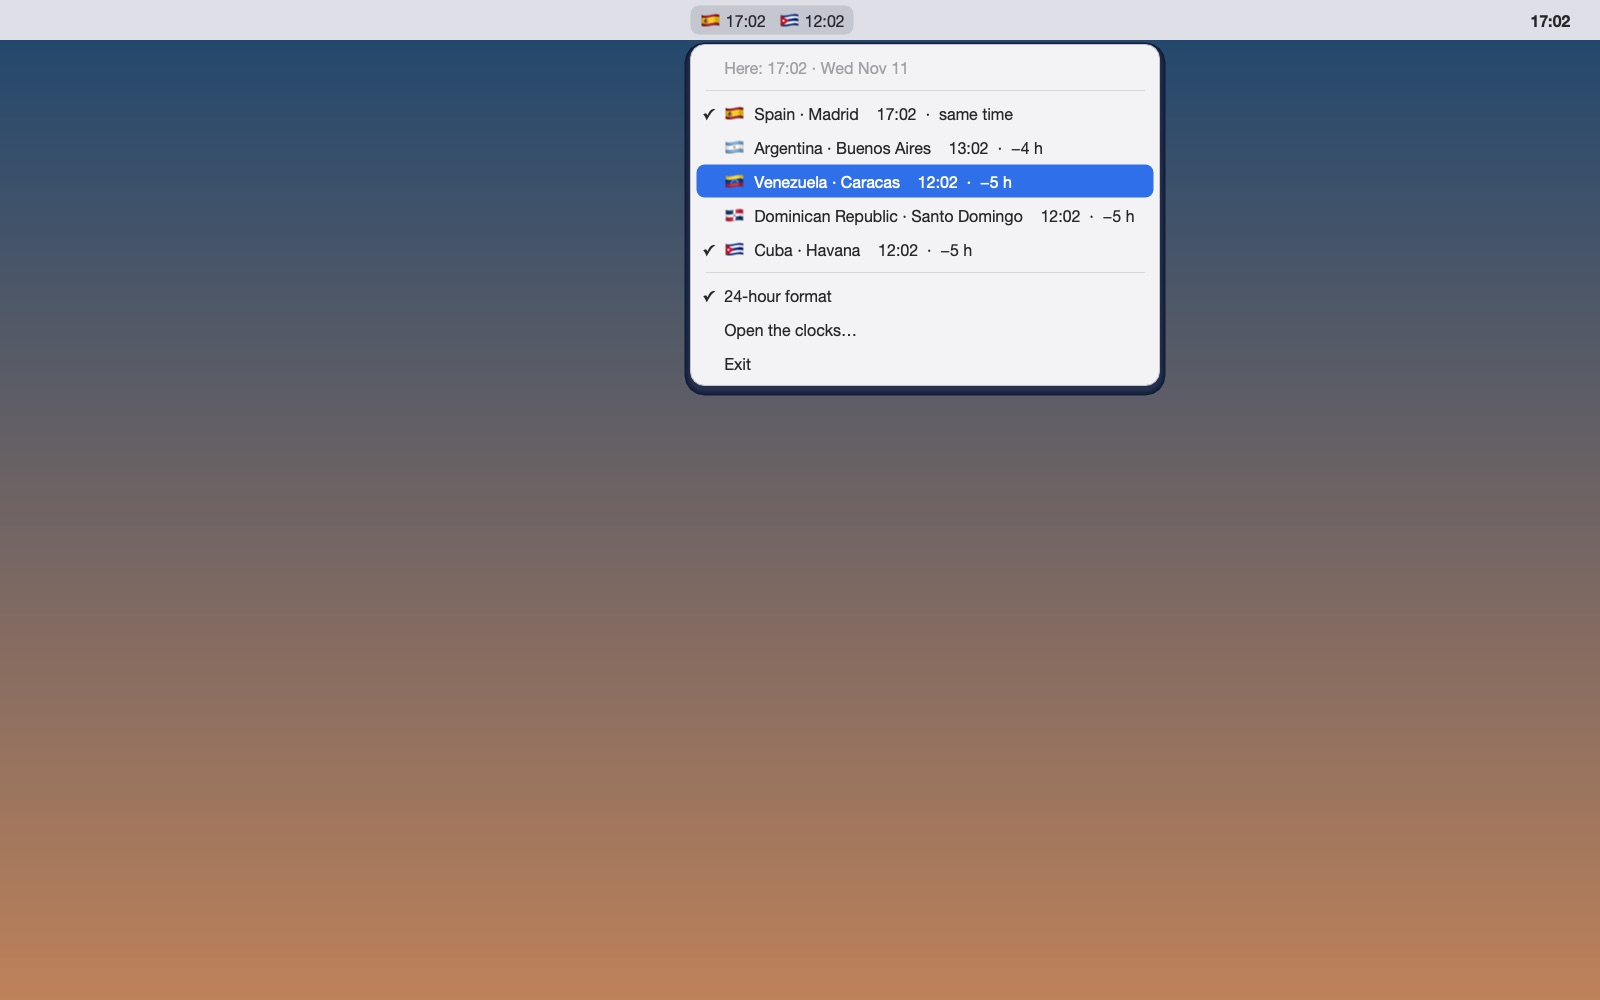
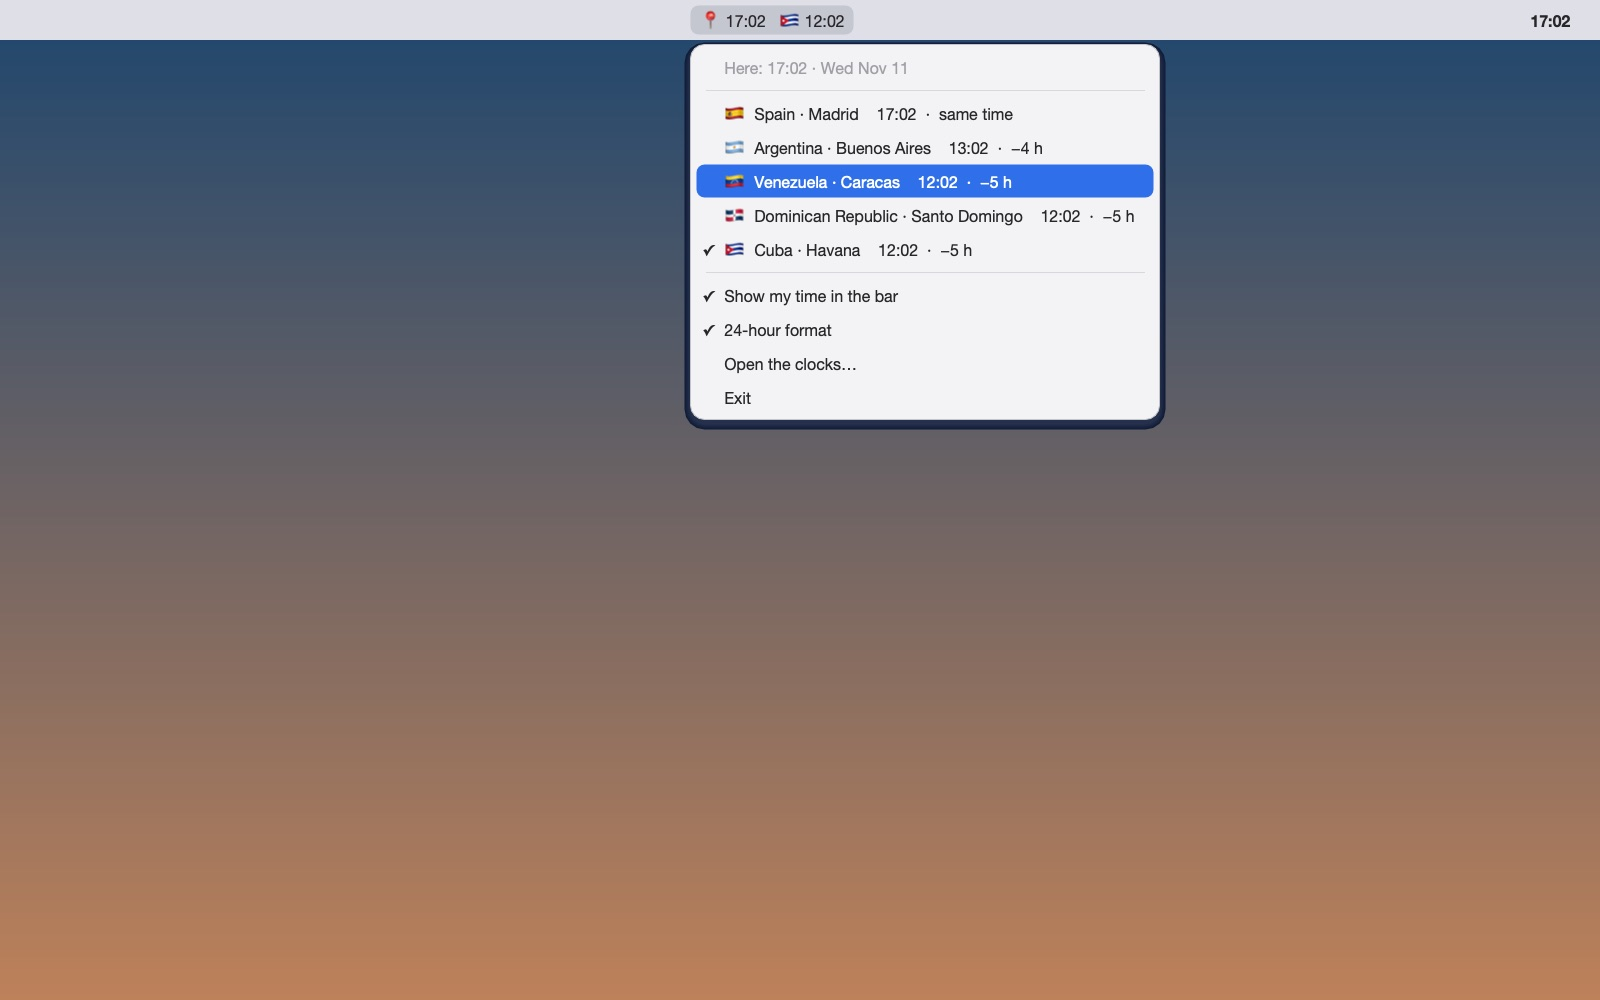
1.0.95: los relojes enseñan su hora y, al lado, la del país marcado
La barra de menús empieza con la hora de este equipo (📍) y sigue con la de
los países marcados, sin repetir los de la misma hora. «Mostrar mi hora en
la barra» en el menú. Los ajustes antiguos marcan otro país.

Changed region(s): [[0.4062, 0.279, 0.75, 0.434], [0.4375, 0.0, 0.4688, 0.031]]

diff --git a/studio/lib/code/tk_showcase_cpp_clocks_code.dart b/studio/lib/code/tk_showcase_cpp_clocks_code.dart
@@ -288,31 +288,55 @@ struct Settings {
   std::vector<std::string> clocks;
   std::vector<std::string> in_bar;
   bool h24 = true;
+  bool show_here = true;   // la hora de este equipo, la primera en la barra
 };
-Settings defaults() {
+// Por defecto, en la barra: su hora y la del primer país con otra hora.
+Settings defaults(long long t) {
   Settings s;
   for (const char* k : DEFAULTS) s.clocks.push_back(k);
-  s.in_bar = {"ES"};
+  int here = local_offset_min(t);
+  for (const auto& k : s.clocks)
+    if (offset_min(zone_index(k), t) != here) {
+      s.in_bar.push_back(k);
+      break;
+    }
   return s;
 }
 std::string serialize(const Settings& s) {
   std::string o = "h24=" + std::string(s.h24 ? "1" : "0") + "\n";
+  o += "here=" + std::string(s.show_here ? "1" : "0") + "\n";
   for (const auto& k : s.clocks) o += "clock=" + k + "\n";
   for (const auto& k : s.in_bar) o += "bar=" + k + "\n";
   return o;
 }
-Settings parse(const std::string& text) {
+Settings parse(const std::string& text, long long t) {
   Settings s;
-  bool any = false;
+  bool any = false, has_here = false;
   for (const auto& l : split(text, '\n')) {
     if (l.rfind("h24=", 0) == 0) s.h24 = l.substr(4) != "0";
+    else if (l.rfind("here=", 0) == 0) { s.show_here = l.substr(5) != "0"; has_here = true; }
     else if (l.rfind("clock=", 0) == 0 && zone_index(l.substr(6)) >= 0) { s.clocks.push_back(l.substr(6)); any = true; }
     else if (l.rfind("bar=", 0) == 0 && zone_index(l.substr(4)) >= 0) s.in_bar.push_back(l.substr(4));
   }
   if (!any) {
-    Settings d = defaults();
+    Settings d = defaults(t);
     d.h24 = s.h24;
+    d.show_here = s.show_here;
     return d;
+  }
+  // Un archivo de antes de «su hora en la barra»: si solo tenía marcados
+  // países con la hora de aquí, se marca también el primero con otra hora.
+  if (!has_here) {
+    int here = local_offset_min(t);
+    bool other = false;
+    for (const auto& k : s.in_bar)
+      if (offset_min(zone_index(k), t) != here) other = true;
+    if (!other)
+      for (const auto& k : s.clocks)
+        if (offset_min(zone_index(k), t) != here) {
+          s.in_bar.push_back(k);
+          break;
+        }
   }
   return s;
 }
@@ -348,12 +372,16 @@ bool write_file(const std::string& path, const std::string& data) {
   return std::fclose(f) == 0 && ok;
 }
 
-// ---- el texto de la barra: «🇪🇸 17:02  🇨🇺 11:02»
+// ---- el texto de la barra: su hora y, al lado, la de los países marcados
+// («📍 17:02   🇨🇺 12:02»); los que tienen su misma hora no se repiten.
 std::string bar_title(const Settings& s, long long t) {
   std::string o;
+  int here = local_offset_min(t);
+  if (s.show_here) o = "📍 " + time_text(clock_at(t, here), s.h24);
   for (const auto& k : s.clocks) {
     if (!contains(s.in_bar, k)) continue;
     int i = zone_index(k);
+    if (s.show_here && offset_min(i, t) == here) continue;
     if (!o.empty()) o += "   ";
     o += flag(i) + " " + time_text(clock_at(t, offset_min(i, t)), s.h24);
   }
@@ -367,7 +395,7 @@ struct MenuEntry {
   bool enabled = true, checked = false, sep = false;
   std::vector<MenuEntry> sub;
 };
-enum Act { A_BAR = 1, A_WINDOW = 100, A_TO_BAR = 101, A_H24 = 102, A_QUIT = 103 };
+enum Act { A_BAR = 1, A_WINDOW = 100, A_TO_BAR = 101, A_H24 = 102, A_QUIT = 103, A_HERE = 104 };
 inline int tag(int act, int i) { return act * 1000 + i; }
 
 std::vector<MenuEntry> bar_menu(const Settings& s, long long t, bool window_shown) {
@@ -393,6 +421,11 @@ std::vector<MenuEntry> bar_menu(const Settings& s, long long t, bool window_show
     m.push_back(e);
   }
   m.push_back(sep);
+  MenuEntry mine;
+  mine.title = tx::SHOW_HERE;
+  mine.tag = tag(A_HERE, 0);
+  mine.checked = s.show_here;
+  m.push_back(mine);
   MenuEntry h;
   h.title = tx::FORMAT_24;
   h.tag = tag(A_H24, 0);
@@ -637,18 +670,39 @@ int selftest() {
   chk(diff_text(-300) == "−5 h" && diff_text(330) == "+5 h 30 min" && diff_text(0) == tx::SAME_TIME, "diferencias");
   chk(flag(zone_index("ES")) == "🇪🇸", "bandera");
   // Ajustes.
-  Settings s = defaults();
-  chk(s.clocks.size() == 5 && s.clocks[4] == "CU" && s.in_bar.size() == 1, "por defecto");
+  Settings s = defaults(winter);
+  chk(s.clocks.size() == 5 && s.clocks[4] == "CU" && s.in_bar.size() == 1 && s.show_here, "por defecto");
+  // En la barra, por defecto, el primer país con otra hora que la de aquí.
+  chk(offset_min(zone_index(s.in_bar[0]), winter) != local_offset_min(winter), "por defecto, otro país");
   s.h24 = false;
-  s.in_bar.push_back("CU");
-  Settings r = parse(serialize(s));
-  chk(!r.h24 && r.clocks == s.clocks && r.in_bar == s.in_bar, "guardar y leer");
-  chk(parse("").clocks.size() == 5, "sin archivo, los de siempre");
-  chk(parse("clock=XX\nclock=JP\n").clocks.size() == 1, "países que no existen");
+  s.in_bar = {"ES", "CU"};
+  Settings r = parse(serialize(s), winter);
+  chk(!r.h24 && r.show_here && r.clocks == s.clocks && r.in_bar == s.in_bar, "guardar y leer");
+  chk(parse("", winter).clocks.size() == 5, "sin archivo, los de siempre");
+  chk(parse("clock=XX\nclock=JP\n", winter).clocks.size() == 1, "países que no existen");
+  {
+    // El archivo de la versión anterior (sin «here=»), con la hora de aquí marcada.
+    std::string here_key;
+    for (int i = 0; i < ZONE_N && here_key.empty(); i++)
+      if (offset_min(i, winter) == local_offset_min(winter)) here_key = ZONES[i].key;
+    if (!here_key.empty()) {
+      Settings old = parse("h24=1\nclock=" + here_key + "\nclock=CU\nbar=" + here_key + "\n", winter);
+      bool cu = offset_min(zone_index("CU"), winter) != local_offset_min(winter);
+      chk(!cu || contains(old.in_bar, "CU"), "archivo antiguo: otro país marcado");
+    }
+  }
+  r.h24 = true;
   std::string bt = bar_title(r, winter);
-  chk(bt.find("🇪🇸") != std::string::npos && bt.find("🇨🇺") != std::string::npos, "título de la barra");
+  std::string here_t = time_text(clock_at(winter, local_offset_min(winter)), true);
+  chk(bt.rfind("📍 " + here_t, 0) == 0, "su hora primero");
+  chk(bt.find("🇨🇺 " + time_text(clock_at(winter, -300), true)) != std::string::npos, "Cuba al lado");
+  // España solo si su hora no es la de aquí (no se repite).
+  bool es_same = offset_min(zone_index("ES"), winter) == local_offset_min(winter);
+  chk((bt.find("🇪🇸") == std::string::npos) == es_same, "su misma hora no se repite");
+  r.show_here = false;
+  chk(bar_title(r, winter).find("📍") == std::string::npos && bar_title(r, winter).find("🇪🇸") != std::string::npos, "sin su hora");
   auto menu = bar_menu(r, winter, false);
-  chk(menu.size() == 2 + 5 + 4 && menu[2].checked && !menu[3].checked && menu[6].checked, "menú de la barra");
+  chk(menu.size() == 2 + 5 + 5 && menu[2].checked && !menu[3].checked && menu[6].checked && !menu[8].checked, "menú de la barra");
   int checked = 0;
   int bad = compare_with_system(checked);
   std::printf("zonas: %d horas comparadas con el sistema, %d distintas\n", checked, bad);
@@ -848,7 +902,7 @@ public:
   std::string data_file() const { return wc::config_dir() + "/clocks.txt"; }
   void load() {
     std::string text;
-    set = wc::read_file(data_file(), text) ? wc::parse(text) : wc::defaults();
+    set = wc::read_file(data_file(), text) ? wc::parse(text, now()) : wc::defaults(now());
     Format->index(set.h24 ? 0 : 1);
   }
   void save() {
@@ -930,6 +984,11 @@ public:
         save();
         refresh();
         break;
+      case wc::A_HERE:
+        set.show_here = !set.show_here;
+        save();
+        refresh();
+        break;
       case wc::A_WINDOW: from_bar(); break;
       case wc::A_TO_BAR: to_bar(); break;
       case wc::A_QUIT: quit(); break;
@@ -968,8 +1027,9 @@ public:
   void Tick_timer() override { refresh(); }
   void Menu1_click(const std::string& item) override {
     if (item == tx::MP_BAR) to_bar();
+    else if (item == tx::MP_HERE) bar_act(wc::tag(wc::A_HERE, 0));
     else if (item == tx::MP_RESET) {
-      set = wc::defaults();
+      set = wc::defaults(now());
       save();
       refresh();
     } else if (item == tx::MP_QUIT) quit();
@@ -997,8 +1057,8 @@ public:
     demo = true;
     setup();
     size(W, H);
-    set = wc::defaults();
-    set.in_bar = {"ES", "CU"};
+    set = wc::defaults(fixed_now = wc::days_from_civil(2026, 11, 11) * 86400 + 16 * 3600 + 2 * 60 + 24);
+    set.in_bar = {"CU"};
     Format->index(0);
     // El 11 de noviembre de 2026 a las 17:02:24 en España.
     fixed_now = wc::days_from_civil(2026, 11, 11) * 86400 + 16 * 3600 + 2 * 60 + 24;

diff --git a/landing/content/demo-guides.ts b/landing/content/demo-guides.ts
@@ -224,7 +224,7 @@ const es: Record<string, DemoGuide> = {
     intro:
       "La hora de varios países siempre a la vista, en la barra de menús, hecha en C++ con FLTK y diseñada en el estudio: por defecto España, Argentina, Venezuela, República Dominicana y Cuba, y la puede cambiar.",
     steps: [
-      { title: "Sus relojes en la barra", text: "Al abrirla, la hora de España aparece en la barra de menús con su bandera; el menú del icono enseña todos los relojes con la hora, si es mañana o ayer allí, y la diferencia con la suya. Haga clic en un país del menú para ponerlo o quitarlo de la barra." },
+      { title: "Su hora y, al lado, la de otro país", text: "La barra de menús enseña su hora (📍) y, al lado, la del país que marque, con su bandera: «📍 17:02   🇨🇺 12:02». El menú del icono enseña todos los relojes con la hora, si es mañana o ayer allí, y la diferencia con la suya; haga clic en un país para ponerlo o quitarlo de la barra." },
       { title: "Elija los países", text: "En la ventana, cada país es una tarjeta con su esfera, que se oscurece de noche, la fecha y la diferencia horaria. Añada otros con la lista de arriba (hay 39), ordénelos con las flechas y quite los que sobren; elija el formato de 24 o de 12 horas." },
       { title: "El horario de verano, solo", text: "La app sabe cuándo cambia la hora en cada país (Europa, Estados Unidos, Cuba, Chile, Australia, Nueva Zelanda) y lo calcula sin depender del sistema. Cierre la ventana y los relojes siguen en la barra hasta que elija Salir." },
     ],
@@ -529,7 +529,7 @@ const en: Record<string, DemoGuide> = {
     intro:
       "The time in several countries always in sight, in the menu bar, made in C++ with FLTK and designed in the studio: Spain, Argentina, Venezuela, the Dominican Republic and Cuba by default, and you can change them.",
     steps: [
-      { title: "Your clocks in the bar", text: "When it opens, the time in Spain appears in the menu bar with its flag; the icon's menu shows every clock with its time, whether it is tomorrow or yesterday there, and the difference with yours. Click a country in the menu to put it in the bar or take it out." },
+      { title: "Your time and, next to it, another country's", text: "The menu bar shows your time (📍) and, next to it, the time in the country you mark, with its flag: “📍 17:02   🇨🇺 12:02”. The icon's menu shows every clock with its time, whether it is tomorrow or yesterday there, and the difference with yours; click a country to put it in the bar or take it out." },
       { title: "Choose the countries", text: "In the window, each country is a card with its dial, which goes dark at night, the date and the time difference. Add others with the list above (there are 39), order them with the arrows and remove the ones you don't need; choose 24- or 12-hour format." },
       { title: "Daylight saving, automatically", text: "The app knows when the clocks change in each country (Europe, United States, Cuba, Chile, Australia, New Zealand) and works it out without relying on the system. Close the window and the clocks stay in the bar until you choose Quit." },
     ],

diff --git a/landing/content/demo-made.ts b/landing/content/demo-made.ts
@@ -256,13 +256,16 @@ for (int i = 0; i < ZONE_N; i++) {
 
 const clocksBar = `std::string bar_title(const Settings& s, long long t) {
   std::string o;
+  int here = local_offset_min(t);
+  if (s.show_here) o = "📍 " + time_text(clock_at(t, here), s.h24);
   for (const auto& k : s.clocks) {
     if (!contains(s.in_bar, k)) continue;
     int i = zone_index(k);
+    if (s.show_here && offset_min(i, t) == here) continue;
     if (!o.empty()) o += "   ";
     o += flag(i) + " " + time_text(clock_at(t, offset_min(i, t)), s.h24);
   }
-  return o;   // «🇪🇸 17:02   🇨🇺 12:02»
+  return o;   // «📍 17:02   🇨🇺 12:02»
 }`;
 
 const webmonScan = `// Todos los puertos a la vez: conexiones no bloqueantes y un select.
@@ -508,7 +511,7 @@ const es: Record<string, DemoMade> = {
       },
       {
         title: "6. Las horas en la barra de menús",
-        text: "El título del icono son las banderas (dos letras regionales en Unicode) con su hora; se rehace cada segundo y el menú solo cuando cambia. Como en el monitor de sitios, el icono se hace desde C++ con el runtime de Objective-C y la app sigue viva en la barra con Fl::wait.",
+        text: "El título del icono es su hora (📍) y, al lado, la de los países marcados, con su bandera (dos letras regionales en Unicode); los que tienen su misma hora no se repiten; se rehace cada segundo y el menú solo cuando cambia. Como en el monitor de sitios, el icono se hace desde C++ con el runtime de Objective-C y la app sigue viva en la barra con Fl::wait.",
         code: { file: "Form1.cpp", text: clocksBar },
       },
     ],
@@ -745,7 +748,7 @@ const en: Record<string, DemoMade> = {
       },
       {
         title: "6. The times in the menu bar",
-        text: "The icon's title is the flags (two Unicode regional letters) with their time; it is rebuilt every second and the menu only when it changes. As in the website monitor, the icon is made from C++ with the Objective-C runtime and the app stays alive in the bar with Fl::wait.",
+        text: "The icon's title is your time (📍) and, next to it, the marked countries' times with their flag (two Unicode regional letters); those with your same time are not repeated; it is rebuilt every second and the menu only when it changes. As in the website monitor, the icon is made from C++ with the Objective-C runtime and the app stays alive in the bar with Fl::wait.",
         code: { file: "Form1.cpp", text: clocksBar },
       },
     ],

diff --git a/studio/lib/code/tk_showcase_cpp_clocks.dart b/studio/lib/code/tk_showcase_cpp_clocks.dart
@@ -17,6 +17,7 @@ TkExample tkCppClocks(String Function(String) t) {
 
   lines.add(mFile);
   item('BAR', t(markTr('Minimizar a la barra de menús')), mFile);
+  item('HERE', t(markTr('Mostrar mi hora en la barra')), mFile);
   item('RESET', t(markTr('Volver a los relojes de siempre')), mFile);
   lines.add('  -');
   item('QUIT', t(markTr('Salir')), mFile);
@@ -71,7 +72,7 @@ TkExample tkCppClocks(String Function(String) t) {
     'ZONE_NAMES': zones.join('|'),
     'HOW_TEXT': t(
       markTr(
-        'Cada tarjeta es la hora de un país, con su esfera (oscura de noche), la fecha y la diferencia con su hora. Añada países con la lista de arriba, ordénelos con las flechas y quite los que no quiera.\n\n«En la barra» pone esa hora en la barra de menús, con su bandera; el menú del icono enseña todas. Los cambios de horario de verano (Europa, Estados Unidos, Cuba, Chile, Australia y Nueva Zelanda) se calculan solos.\n\nCerrar la ventana la esconde: los relojes siguen en la barra hasta que elija Salir.',
+        'Cada tarjeta es la hora de un país, con su esfera (oscura de noche), la fecha y la diferencia con su hora. Añada países con la lista de arriba, ordénelos con las flechas y quite los que no quiera.\n\nLa barra de menús enseña su hora (📍) y, al lado, la de los países que marque con «En la barra» o con un clic en el menú del icono, que enseña todas. Los cambios de horario de verano (Europa, Estados Unidos, Cuba, Chile, Australia y Nueva Zelanda) se calculan solos.\n\nCerrar la ventana la esconde: los relojes siguen en la barra hasta que elija Salir.',
       ),
     ),
     'ABOUT_TEXT': t(
@@ -91,6 +92,7 @@ TkExample tkCppClocks(String Function(String) t) {
     'NIGHT': t(markTr('☾ De noche')),
     'HERE': t(markTr('Aquí: {0} · {1}')),
     'FORMAT_24': t(markTr('Formato de 24 horas')),
+    'SHOW_HERE': t(markTr('Mostrar mi hora en la barra')),
     'FMT_24': t(markTr('24 horas')),
     'FMT_12': t(markTr('12 horas (a. m./p. m.)')),
     'TO_BAR': t(markTr('Minimizar a la barra de menús')),

diff --git a/landing/lib/version.ts b/landing/lib/version.ts
@@ -1,2 +1,2 @@
 /** Versión publicada de DMarlon Studio (la cambia scripts/version.mjs). */
-export const VERSION = "1.0.94";
+export const VERSION = "1.0.95";

diff --git a/studio/lib/version.dart b/studio/lib/version.dart
@@ -1,2 +1,2 @@
 /// Versión del estudio (la misma que pubspec.yaml).
-const appVersion = '1.0.94';
+const appVersion = '1.0.95';

diff --git a/CHANGELOG.md b/CHANGELOG.md
@@ -3,6 +3,10 @@
 Las versiones se llevan en el archivo `VERSION` y se cambian en todas partes
 con `node scripts/version.mjs <versión|patch|minor|major>`.
 
+## 1.0.95 — 2026-11-11
+
+- **Relojes del mundo: su hora y, al lado, la del país que marque.** La barra de menús empieza con su hora (📍) y sigue con la de los países marcados, con su bandera: «📍 17:02   🇨🇺 12:02»; los que tienen su misma hora no se repiten. Se marca con un clic en el país del menú del icono o con «En la barra» en su tarjeta; por defecto, el primer país de la lista con otra hora. «Mostrar mi hora en la barra» (en el menú del icono y en Archivo) la quita o la pone. Si venía de la versión anterior con solo su propia hora marcada, se marca también el primer país con otra hora.
+
 ## 1.0.94 — 2026-11-11
 
 - **Monitor de sitios web: escáner de puertos.** Cada sitio tiene ahora el botón **Puertos** (y «Escanear puertos» en su menú de la barra, que avisa con el resultado): resuelve su servidor y prueba a la vez los 33 puertos habituales (SSH, web, correo, DNS, bases de datos, Docker, RDP, VNC, Odoo 8069 y 8072…) con conexiones TCP no bloqueantes y un tiempo máximo, en otro hilo. Bajo el sitio salen los abiertos, con su servicio, y en ámbar los que no conviene tener abiertos a internet, con el consejo de cerrarlos o limitarlos a sus IP; «Volver a escanear» lo repite. Está pensado para servidores propios o con permiso, y así lo dice. Probado: la prueba interna abre un puerto en este equipo y comprueba que sale abierto y que uno cerrado no, y que un servidor que no existe da error; la prueba de la interfaz abre y cierra la zona de puertos; y un escaneo de verdad de este equipo encontró justo los puertos de la lista que estaban escuchando.

diff --git a/landing/content/CHANGELOG.md b/landing/content/CHANGELOG.md
@@ -3,6 +3,10 @@
 Las versiones se llevan en el archivo `VERSION` y se cambian en todas partes
 con `node scripts/version.mjs <versión|patch|minor|major>`.
 
+## 1.0.95 — 2026-11-11
+
+- **Relojes del mundo: su hora y, al lado, la del país que marque.** La barra de menús empieza con su hora (📍) y sigue con la de los países marcados, con su bandera: «📍 17:02   🇨🇺 12:02»; los que tienen su misma hora no se repiten. Se marca con un clic en el país del menú del icono o con «En la barra» en su tarjeta; por defecto, el primer país de la lista con otra hora. «Mostrar mi hora en la barra» (en el menú del icono y en Archivo) la quita o la pone. Si venía de la versión anterior con solo su propia hora marcada, se marca también el primer país con otra hora.
+
 ## 1.0.94 — 2026-11-11
 
 - **Monitor de sitios web: escáner de puertos.** Cada sitio tiene ahora el botón **Puertos** (y «Escanear puertos» en su menú de la barra, que avisa con el resultado): resuelve su servidor y prueba a la vez los 33 puertos habituales (SSH, web, correo, DNS, bases de datos, Docker, RDP, VNC, Odoo 8069 y 8072…) con conexiones TCP no bloqueantes y un tiempo máximo, en otro hilo. Bajo el sitio salen los abiertos, con su servicio, y en ámbar los que no conviene tener abiertos a internet, con el consejo de cerrarlos o limitarlos a sus IP; «Volver a escanear» lo repite. Está pensado para servidores propios o con permiso, y así lo dice. Probado: la prueba interna abre un puerto en este equipo y comprueba que sale abierto y que uno cerrado no, y que un servidor que no existe da error; la prueba de la interfaz abre y cierra la zona de puertos; y un escaneo de verdad de este equipo encontró justo los puertos de la lista que estaban escuchando.
